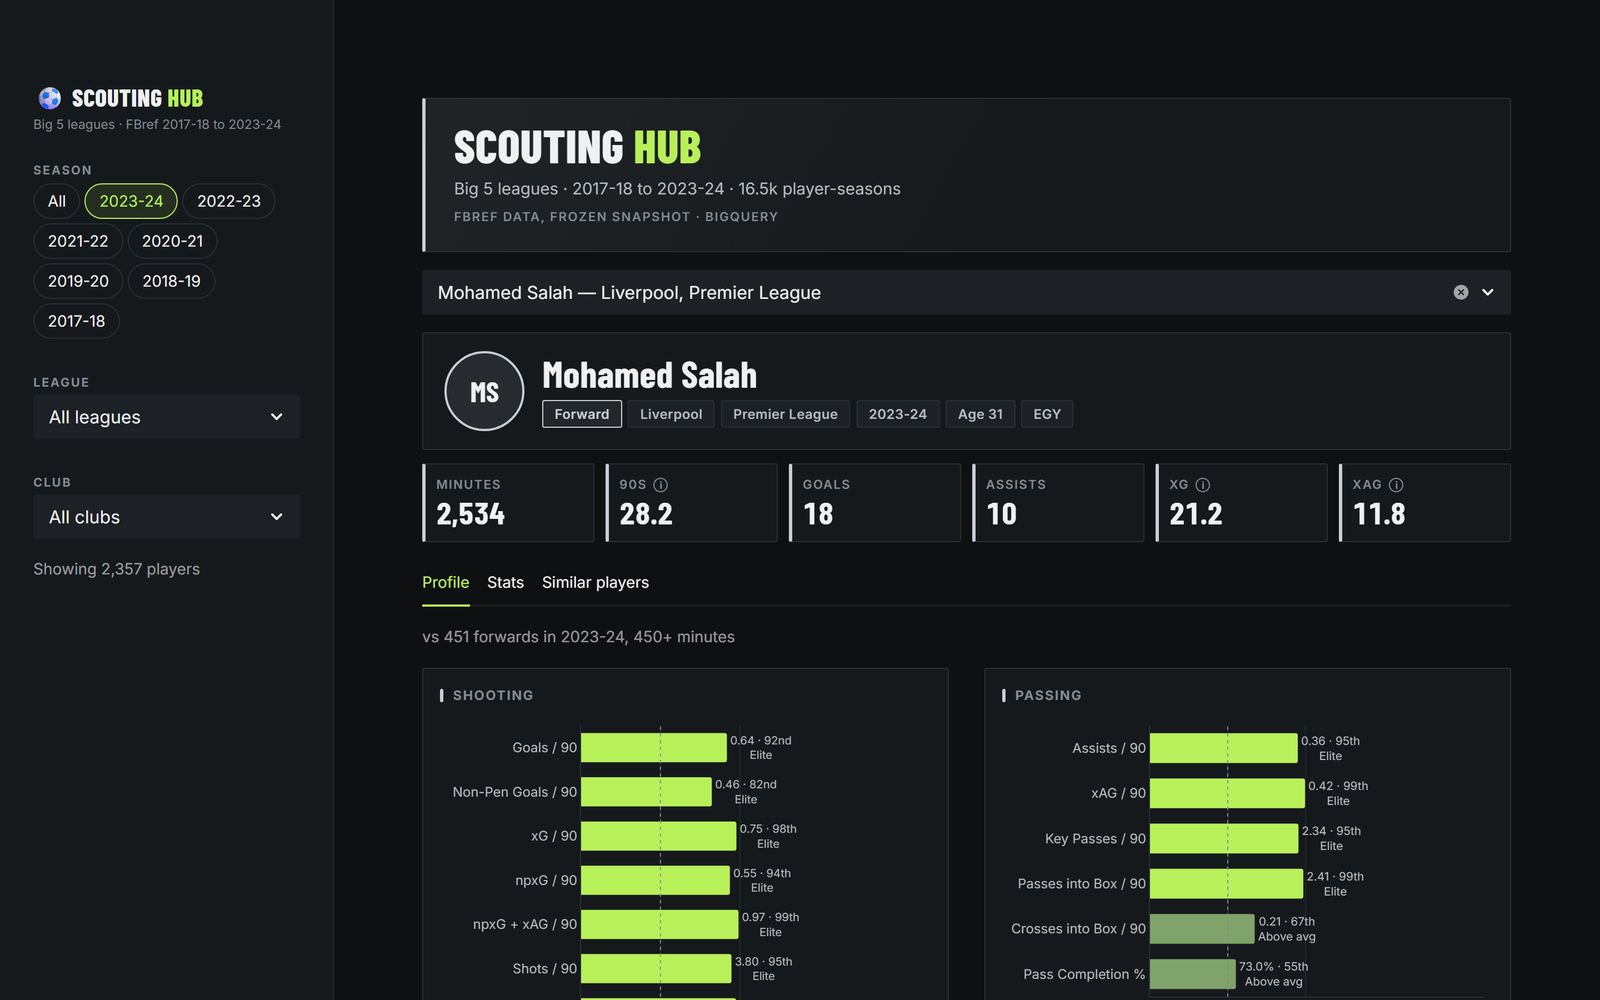
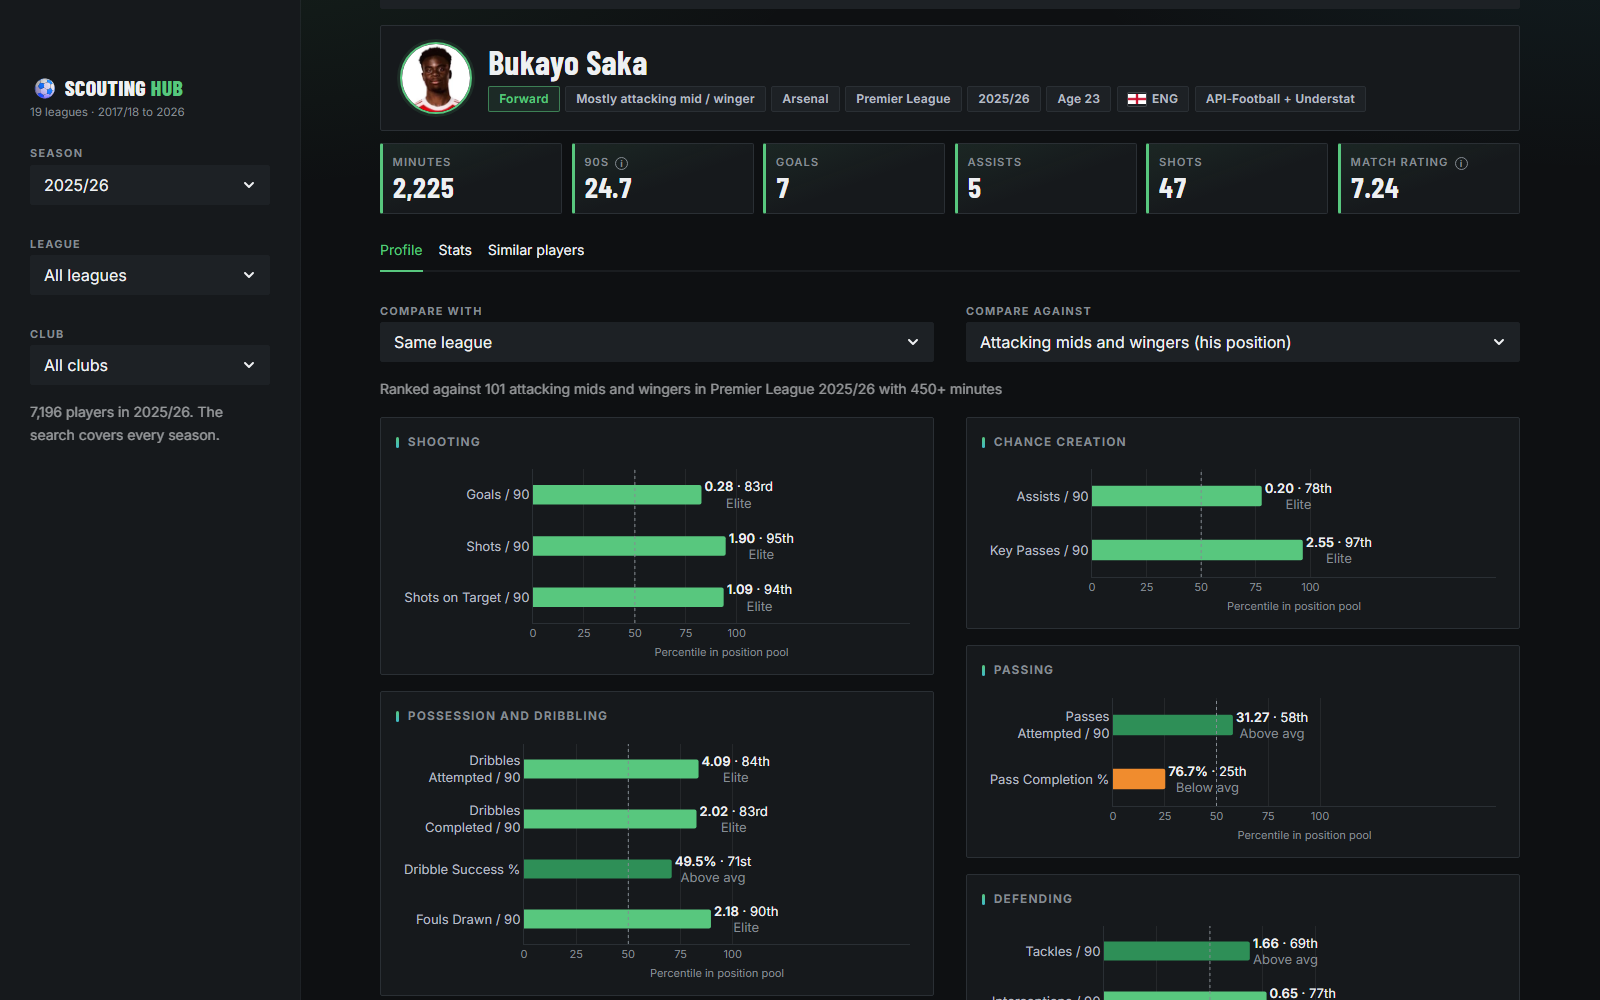
Refresh Basketball and Scouting Hub screenshots and descriptions
Basketball: Players page with a player open, from the live app after the November redesign; copy drops the removed advanced-stat leaderboards and updates test counts and the now-daily refresh. Scouting Hub: 2025-26 profile from a local run of the current code; copy covers the 19 leagues, photos and flags, role-based percentiles and the role-aware similarity model.

diff --git a/src/portfolio.js b/src/portfolio.js
@@ -64,12 +64,12 @@ export const projects = [
   {
     name: 'Basketball Intelligence Platform',
     description:
-      'An NBA stats platform for fans and analysts, covering 47 seasons and about 1.09 million player games pulled from the NBA\'s stats site into a DuckDB database and modeled with dbt. The live dashboard has player and team pages, advanced-stat leaderboards, team payroll against the salary cap back to 1984-85, and a first-pass game predictor. An arcade section adds trivia games and a team builder where you build or draft an eight-player roster. 75 data checks and 260 tests guard it, and a weekly job keeps it current.',
+      'An NBA stats platform for fans and analysts, covering 47 seasons and about 1.09 million player games pulled from the NBA\'s stats site into a DuckDB database and modeled with dbt. The live dashboard lets you search any player and compare two from any era side by side, with advanced stats on the player and team pages, team payroll against the salary cap back to 1984-85, and a first-pass game predictor. An arcade section adds trivia games and a team builder where you build or draft an eight-player roster. 132 data checks and 1,002 tests guard it, and a daily job keeps it current.',
     stack: ['Python', 'DuckDB', 'dbt', 'Streamlit', 'Plotly', 'nba_api', 'scikit-learn', 'pytest', 'Docker'],
     featured: true,
     image: shotBasketball,
     imageAlt:
-      'Basketball IQ dashboard showing the 2025-26 season overview, league leaders and efficiency leaders',
+      'Basketball IQ Players page showing Luka Doncic\'s 2026-27 season: stat tiles and a points-by-game chart',
     sourceCode: 'https://github.com/Ajaiah-D/basketball-intelligence-platform',
     livePreview: 'https://basketball-intelligence-platform.streamlit.app/'
   },
@@ -133,12 +133,12 @@ export const projects = [
   {
     name: 'Scouting Hub',
     description:
-      'A scouting app for comparing soccer players, built with Thomas Tsangou. It covers about 16,500 player seasons from Europe\'s top five leagues, 2017-18 to 2023-24, taken from an FBref snapshot and stored in Google BigQuery. Search any player to see percentile bars against others in the same position, with counting stats per 90 minutes and "lower is better" stats like cards and errors flipped. A similar-players finder ranks the closest matches and compares any two head to head on a chart, goalkeepers included.',
+      'A scouting app for comparing soccer players, built with Thomas Tsangou. It covers 19 leagues in Google BigQuery: Europe\'s top five from 2017-18 (an FBref snapshot), 15 European leagues for 2024-25 and 2025-26, including the Championship, League One and League Two (API-Football, with Understat xG for the top five), and four US leagues from 2024 to 2026 (American Soccer Analysis). Player cards show a flag and, for most players, a photo. Percentile bars rank a player\'s per-90 stats against his role, or any other position, in his league, the top five leagues or all of them. A role-aware similarity model weighs style and where a player actually lines up, so in 2025-26 Olise\'s closest match is Yamal.',
     stack: ['Python', 'pandas', 'NumPy', 'BeautifulSoup', 'BigQuery', 'Google Cloud Storage', 'Streamlit', 'Plotly', 'Docker'],
     featured: true,
     image: shotScoutingHub,
     imageAlt:
-      'Scouting Hub app showing the 2023-24 profile of Mohamed Salah: stat tiles and percentile bars against other forwards',
+      'Scouting Hub app showing the 2025-26 profile of Bukayo Saka: photo, flag, role, stat tiles and percentile bars against Premier League attacking mids and wingers',
     sourceCode: 'https://github.com/M4G1C14N5/scouting-report',
     livePreview: 'https://fae.camuedlabs.org'
   },
